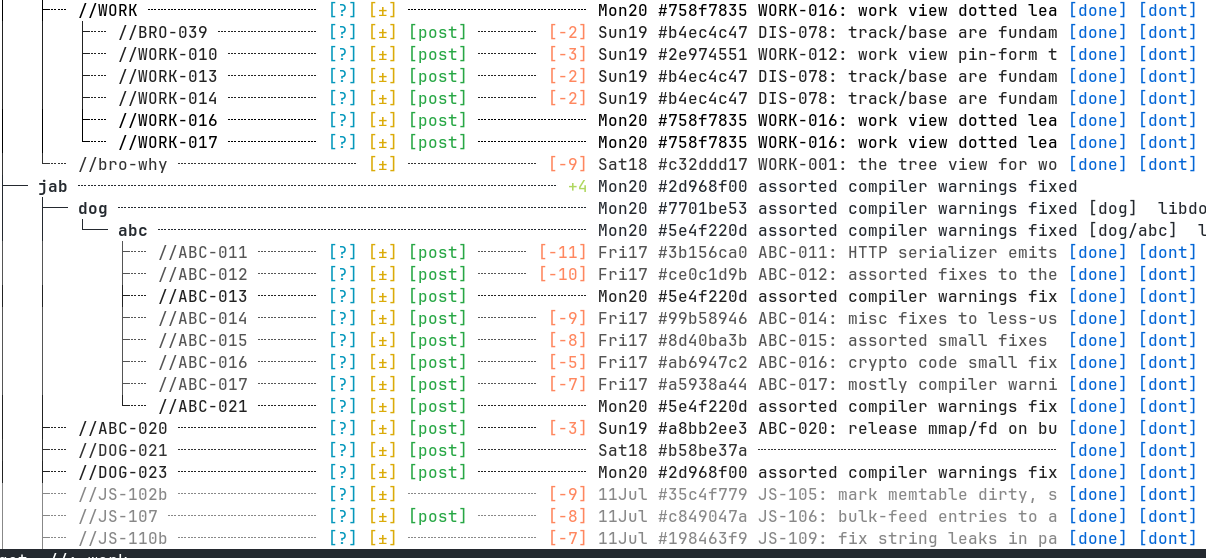
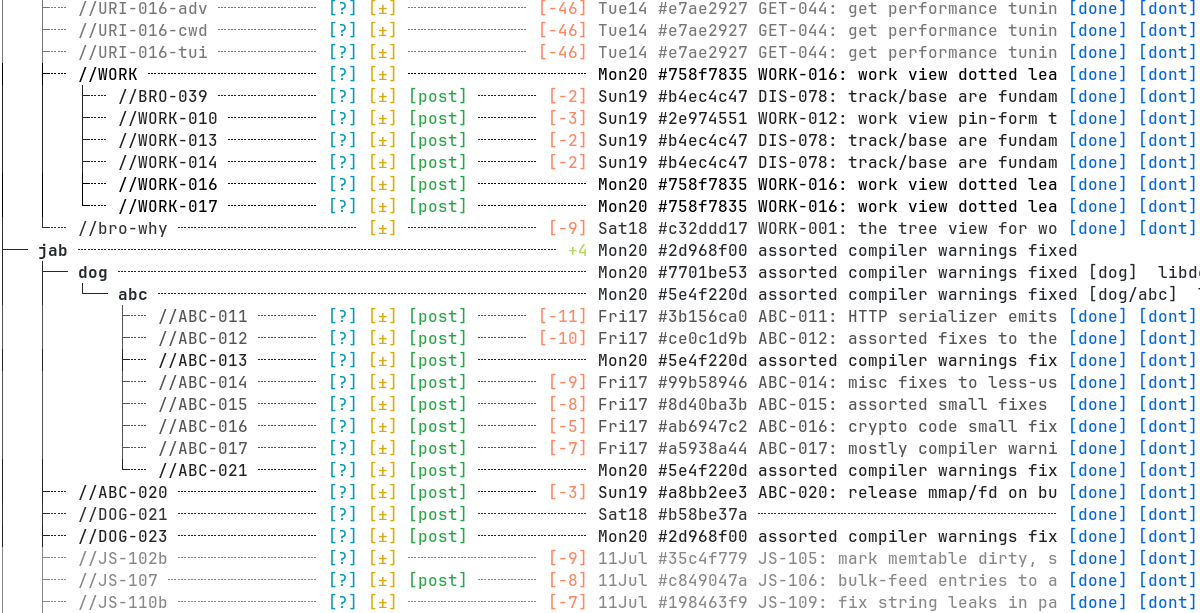
update the pics

Changed region(s): [[0.0, 0.0, 1.0, 1.0]]

diff --git a/blog/follow-up.html b/blog/follow-up.html
@@ -32,7 +32,7 @@ Seen this way, the swarm starts to resemble a compiler. A compiler translates so
 Whether agents are the new compilers is an old debate, but the interesting question is elsewhere. Or, more precisely, right here. <strong>Where did the 835-page spec come from?</strong> Was it written out of the blue by Dr. Hipp? Nope. Was it vibed? Nope. So, where did it come from? Right, it co-evolved with the code. Neither was it code→spec nor was it spec→code. Both spiraled into existence based on the objectives, the progress, and the feedback that was channeled into the project by different means. <img src="./img/drawing_hands.jpg#rightw40" alt="Escher: Drawing Hands">
 </p>
 <p>
-Essentially, the Cursor folks regenerated half a project (the code) from the other half (the spec), plus sqlite code in the training set, plus all the relevant discussion and textbooks absorbed at that stage.
+Essentially, the Cursor folks regenerated half a project (the code) from the other half (the spec), plus sqlite code <a href="./img/gpt.jpg">in the training set</a>, plus all the relevant discussion and textbooks absorbed at that stage.
 </p>
 <p>
 The code did not face diverse real-world workloads to evolve based on that (primary) feedback. Nor did it absorb real-world expert feedback at any stage.  In fact, the authors admit they did not bother to study the resulting code and delegated that work to the reader.
